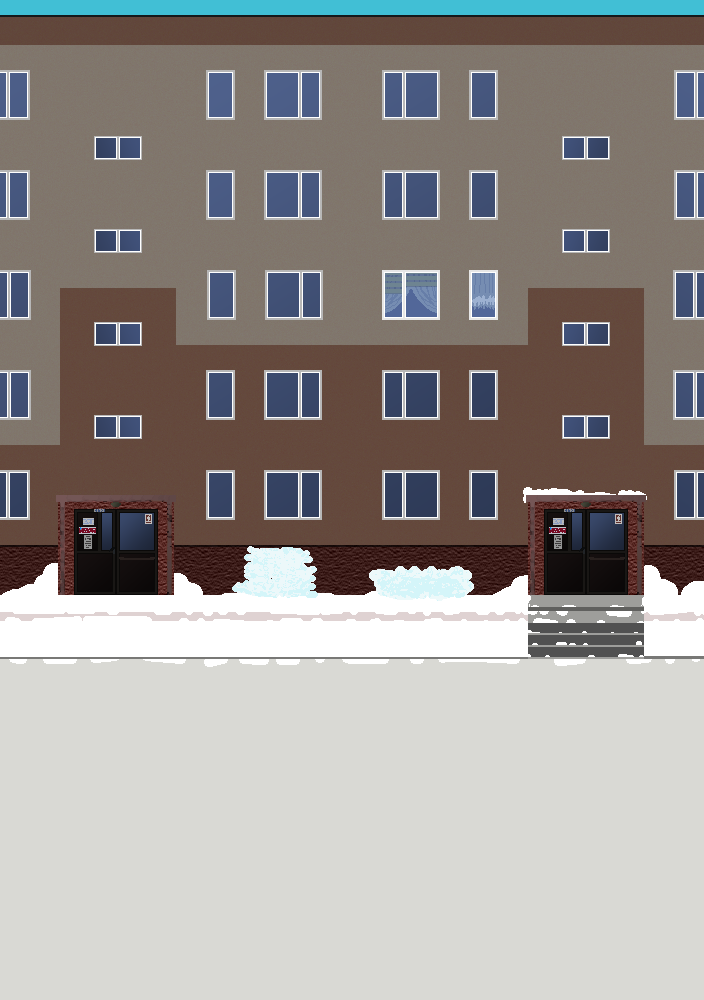
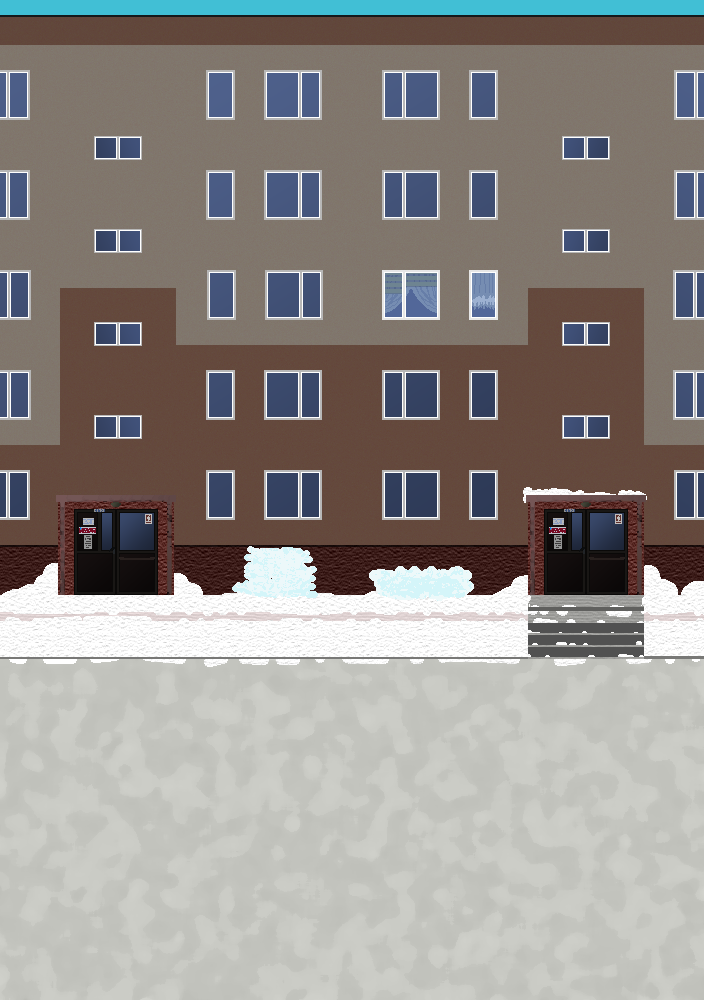
Update ground texture with added sidewalk detail
Windows, doors, and the ground/roof lines are unchanged (confirmed via pixel
diff - only y=487+ differs), so no gameplay constants needed updating.

diff --git a/index.html b/index.html
@@ -64,7 +64,7 @@
 
   <script src="https://cdn.jsdelivr.net/npm/phaser@3.80.1/dist/phaser.min.js"></script>
   <script src="src/economy.js?v=1"></script>
-  <script src="src/main.js?v=5"></script>
+  <script src="src/main.js?v=6"></script>
   <script>
     // Explicit on-screen button for mobile, in addition to spacebar and tap-anywhere-on-canvas.
     document.getElementById("freeze-button").addEventListener("click", (e) => {

diff --git a/src/main.js b/src/main.js
@@ -62,7 +62,7 @@ class MainScene extends Phaser.Scene {
   }
 
   preload() {
-    this.load.image("background", "assets/building/background.png");
+    this.load.image("background", "assets/building/background.png?v=2");
   }
 
   create() {
